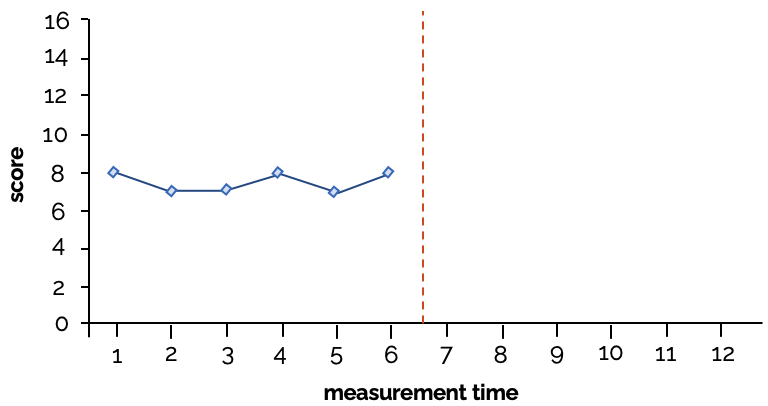
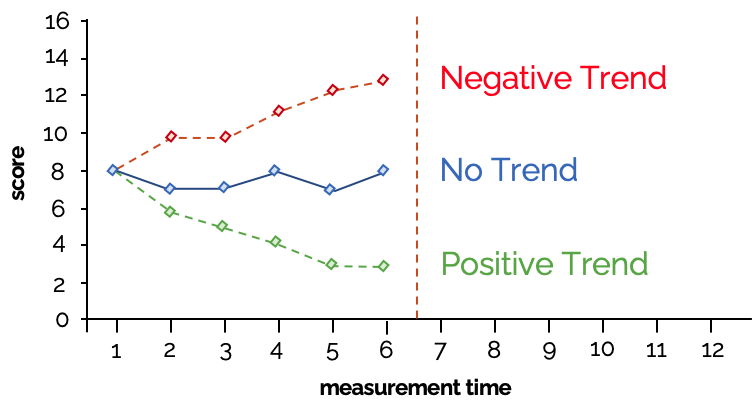
BL-trend

diff --git a/Untitled.html b/Untitled.html
@@ -532,12 +532,45 @@ background-size: 25%
 
 Los .pink[2 propósitos] de una línea de base son
 
-a)	Demostrar que la **conducta objetivo** se presenta con .pink[frecuencia.] y con un **patrón de respuesta** claramente definido .pink[(predecible y estable), con poca o ninguna tendencia],
-b)	Evaluar los efectos de una intervención.
+a)	Demostrar que el **comportamiento** se presenta .pink[frecuentemente,] con un **patrón predecible** y con .pink[poca o ninguna tendencia.] 
 
 --
 
-.center[&lt;img src="https://github.com/danielesnm/SCEDs/blob/main/img/BL-trend1.png?raw=true" style="width: 60%" /&gt;]
+.center[&lt;img src="https://github.com/danielesnm/SCEDs/blob/main/img/BL-trend.png?raw=true" style="width: 55%" /&gt;]
+
+---
+# &lt;svg xmlns="http://www.w3.org/2000/svg" viewBox="0 0 576 512" class="rfa" style="height:0.75em;fill:salmon;position:relative;"&gt;&lt;path d="M572.52 241.4C518.29 135.59 410.93 64 288 64S57.68 135.64 3.48 241.41a32.35 32.35 0 0 0 0 29.19C57.71 376.41 165.07 448 288 448s230.32-71.64 284.52-177.41a32.35 32.35 0 0 0 0-29.19zM288 400a144 144 0 1 1 144-144 143.93 143.93 0 0 1-144 144zm0-240a95.31 95.31 0 0 0-25.31 3.79 47.85 47.85 0 0 1-66.9 66.9A95.78 95.78 0 1 0 288 160z"/&gt;&lt;/svg&gt; Paso 1: estabilidad de la línea base
+
+Los .pink[2 propósitos] de una línea de base son
+
+a)	Demostrar que el **comportamiento** se presenta .pink[frecuentemente,] con un **patrón predecible** y con .pink[poca o ninguna tendencia.]  
+b)	Evaluar los .pink[efectos de una intervención.]  
+
+--
+
+.center[&lt;img src="https://github.com/danielesnm/SCEDs/blob/main/img/BL-trend1.png?raw=true" style="width: 100%" /&gt;]
+
+---
+# &lt;svg xmlns="http://www.w3.org/2000/svg" viewBox="0 0 576 512" class="rfa" style="height:0.75em;fill:salmon;position:relative;"&gt;&lt;path d="M572.52 241.4C518.29 135.59 410.93 64 288 64S57.68 135.64 3.48 241.41a32.35 32.35 0 0 0 0 29.19C57.71 376.41 165.07 448 288 448s230.32-71.64 284.52-177.41a32.35 32.35 0 0 0 0-29.19zM288 400a144 144 0 1 1 144-144 143.93 143.93 0 0 1-144 144zm0-240a95.31 95.31 0 0 0-25.31 3.79 47.85 47.85 0 0 1-66.9 66.9A95.78 95.78 0 1 0 288 160z"/&gt;&lt;/svg&gt; Paso 1: estabilidad de la línea base
+
+Los .pink[2 propósitos] de una línea de base son
+
+a)	Demostrar que el **comportamiento** se presenta .pink[frecuentemente,] con un **patrón predecible** y con .pink[poca o ninguna tendencia.]  
+b)	Evaluar los .pink[efectos de una intervención.]  
+
+
+.center[&lt;img src="https://github.com/danielesnm/SCEDs/blob/main/img/BL-trend2.png?raw=true" style="width: 100%" /&gt;]
+---
+
+# &lt;svg xmlns="http://www.w3.org/2000/svg" viewBox="0 0 576 512" class="rfa" style="height:0.75em;fill:salmon;position:relative;"&gt;&lt;path d="M572.52 241.4C518.29 135.59 410.93 64 288 64S57.68 135.64 3.48 241.41a32.35 32.35 0 0 0 0 29.19C57.71 376.41 165.07 448 288 448s230.32-71.64 284.52-177.41a32.35 32.35 0 0 0 0-29.19zM288 400a144 144 0 1 1 144-144 143.93 143.93 0 0 1-144 144zm0-240a95.31 95.31 0 0 0-25.31 3.79 47.85 47.85 0 0 1-66.9 66.9A95.78 95.78 0 1 0 288 160z"/&gt;&lt;/svg&gt; Paso 1: estabilidad de la línea base
+
+Los .pink[2 propósitos] de una línea de base son
+
+a)	Demostrar que el **comportamiento** se presenta .pink[frecuentemente,] con un **patrón predecible** y con .pink[poca o ninguna tendencia.]  
+b)	Evaluar los .pink[efectos de una intervención.]  
+
+
+.center[&lt;img src="https://github.com/danielesnm/SCEDs/blob/main/img/BL-trend3.png?raw=true" style="width: 100%" /&gt;]
 
 ---
 background-image: url(https://github.com/danielesnm/SCEDs/blob/main/img/level.png?raw=true)
